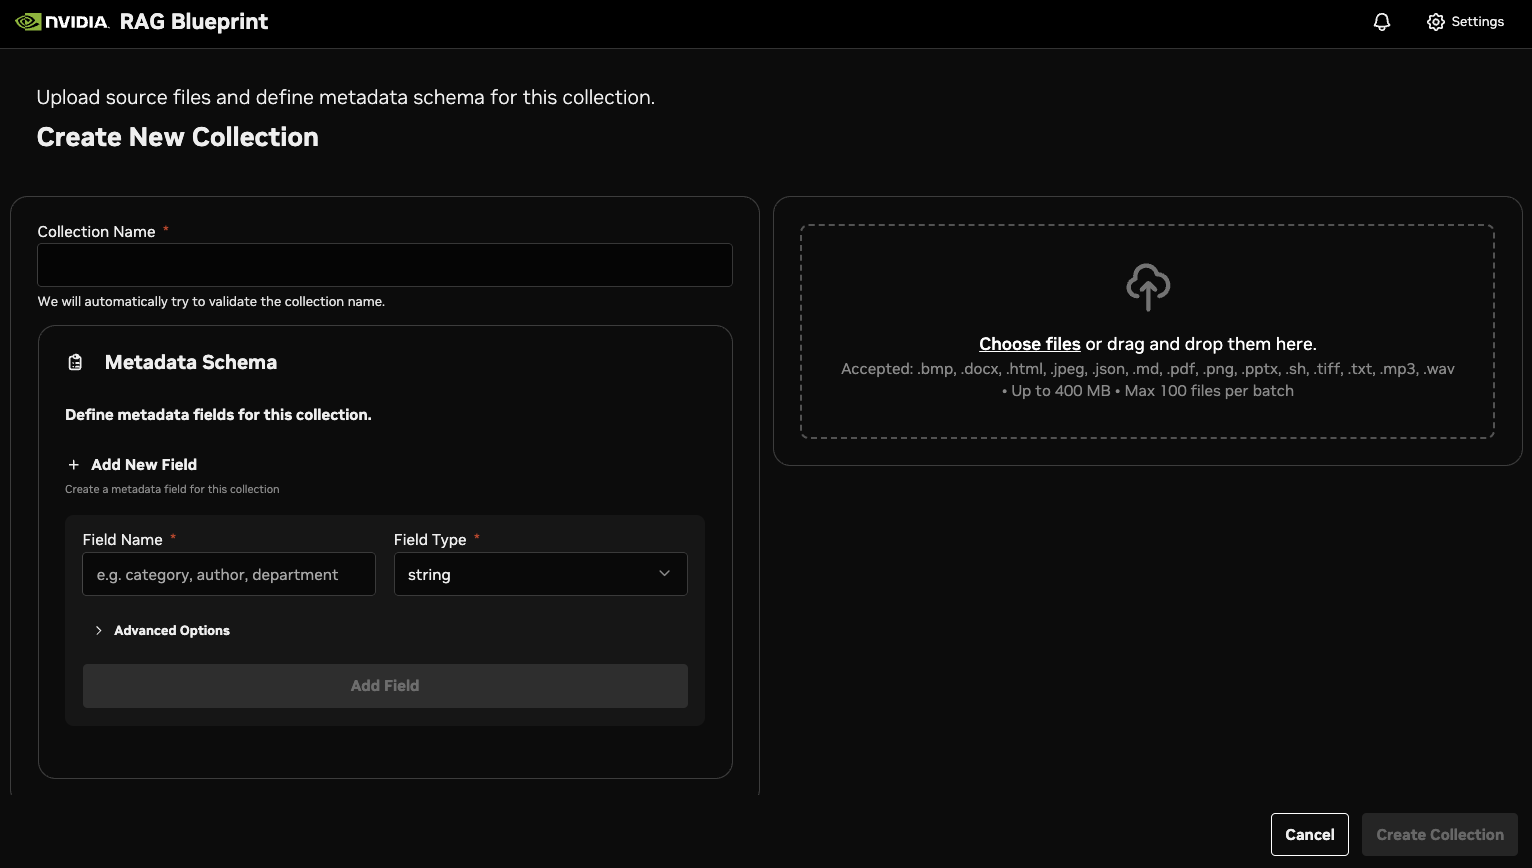
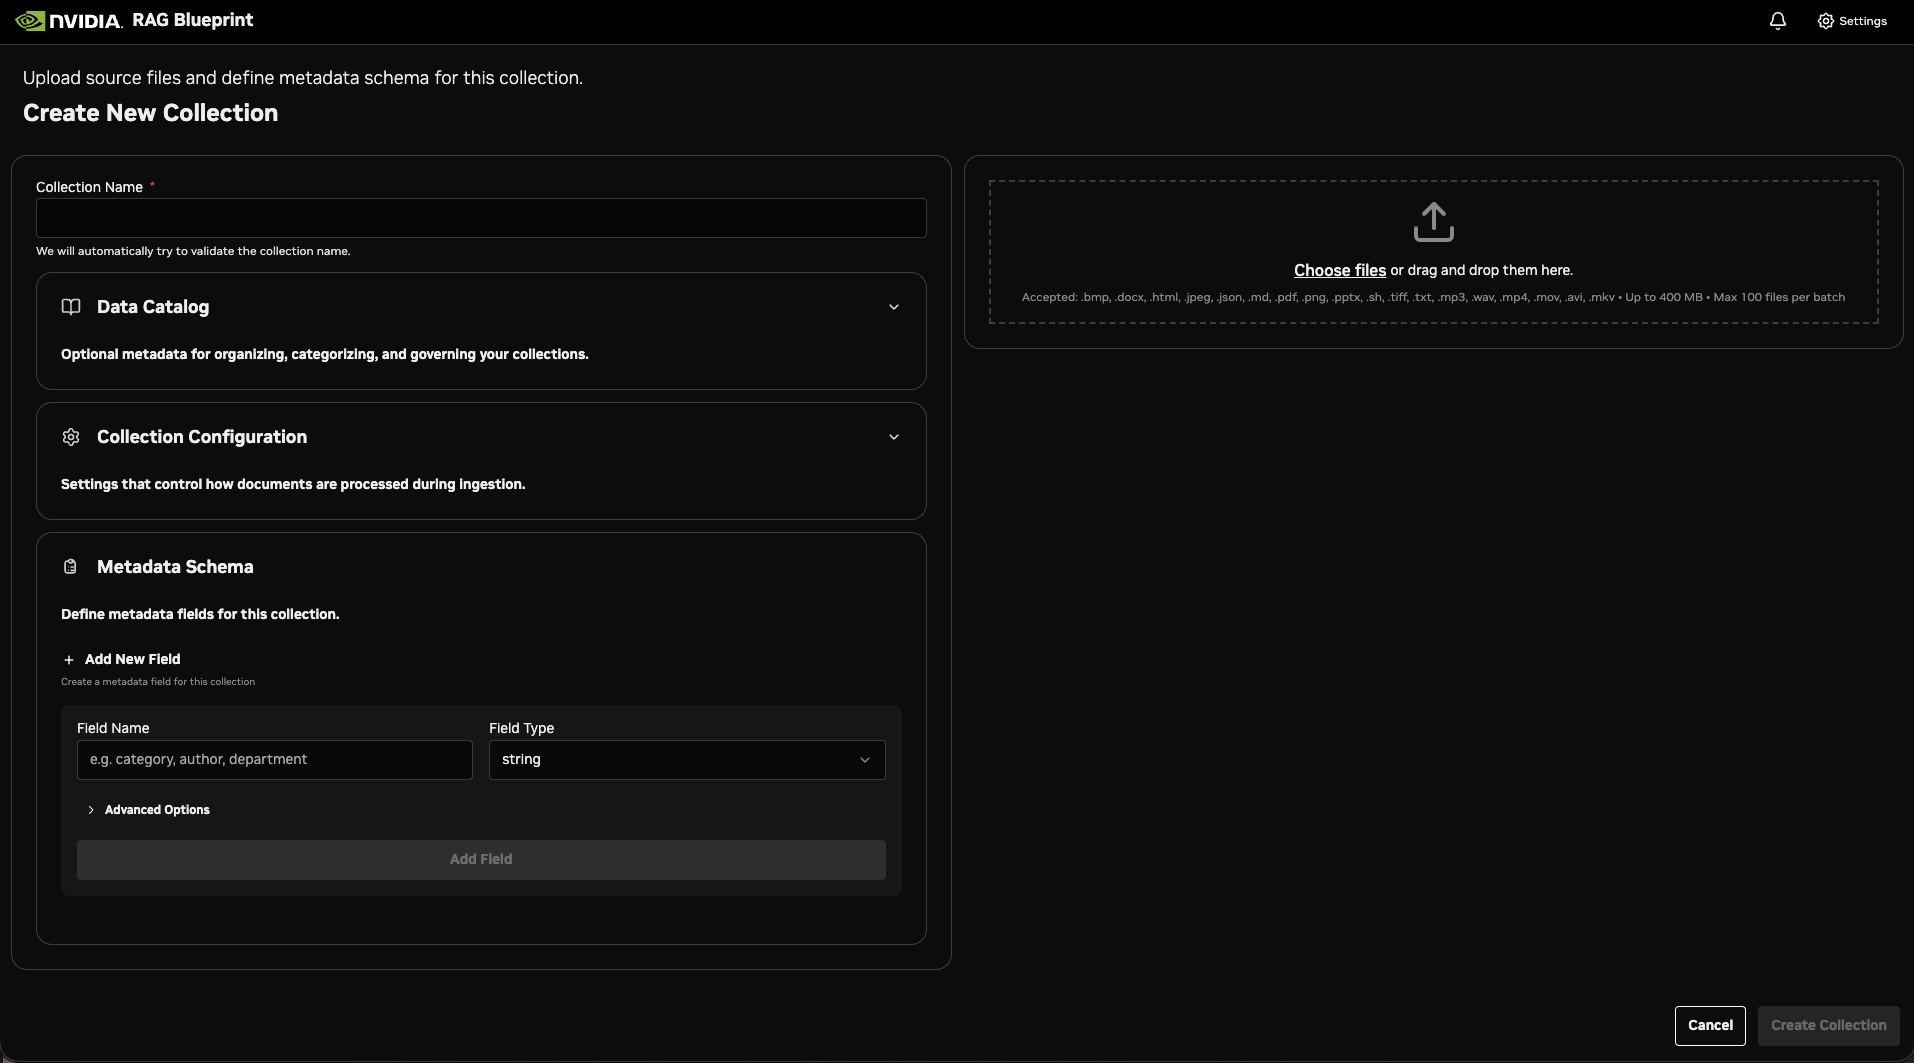
docs: enhance user-interface.md with screenshots and fix sources panel theme
- Add new screenshots for UI documentation:
  - ui-citations.png: Source citations panel
  - ui-settings-rag.png: RAG configuration settings
  - ui-collection-drawer.png: Collection drawer with catalog info
  - Updated existing ui-empty, ui-create-new, ui-query-response

- Update user-interface.md with image references for:
  - Citations and Sources section
  - RAG Configuration section
  - Viewing Collection Details section

- Fix sources panel theme issue:
  - Remove background-color-interaction-inverse from SidebarDrawer
  - Remove text-color-inverse overrides that caused theme mismatch
  - Panel now properly inherits theme colors

- Improve citation text readability:
  - Increase text size from xs (10px) to sm (12px)
  - Increase icon sizes from 12px to 14px

diff --git a/frontend/src/components/citations/CitationMetadata.tsx b/frontend/src/components/citations/CitationMetadata.tsx
@@ -33,16 +33,16 @@ export const CitationMetadata = ({ source, score }: CitationMetadataProps) => {
       <Flex gap="density-md" style={{ paddingTop: 'var(--spacing-density-sm)', flexWrap: 'wrap' }}>
         {source && (
           <Flex align="center" gap="density-xs">
-            <FileText size={12} style={{ color: 'var(--text-color-subtle)' }} />
-            <Text kind="body/regular/xs" style={{ color: 'var(--text-color-subtle)' }}>
+            <FileText size={14} style={{ color: 'var(--text-color-subtle)' }} />
+            <Text kind="body/regular/sm" style={{ color: 'var(--text-color-subtle)' }}>
               Source: {source}
             </Text>
           </Flex>
         )}
         {score !== undefined && (
           <Flex align="center" gap="density-xs">
-            <TrendingUp size={12} style={{ color: 'var(--text-color-subtle)' }} />
-            <Text kind="body/regular/xs" style={{ color: 'var(--text-color-subtle)' }}>
+            <TrendingUp size={14} style={{ color: 'var(--text-color-subtle)' }} />
+            <Text kind="body/regular/sm" style={{ color: 'var(--text-color-subtle)' }}>
               Relevance: {formatScore(score, 3)}
             </Text>
           </Flex>

diff --git a/frontend/src/components/drawer/SidebarDrawer.tsx b/frontend/src/components/drawer/SidebarDrawer.tsx
@@ -64,8 +64,7 @@ export default function SidebarDrawer() {
       closeOnClickOutside
       hideCloseButton
       style={{
-        "--side-panel-width": "75vw",
-        backgroundColor: "var(--background-color-interaction-inverse)"
+        "--side-panel-width": "75vw"
       }}
       slotHeading={
         <Flex align="center" justify="between" gap="3">
@@ -80,7 +79,7 @@ export default function SidebarDrawer() {
               <CitationsIcon />
             </Block>
             <Stack>
-              <Text kind="body/bold/lg" style={{ color: 'var(--text-color-inverse)' }}>
+              <Text kind="body/bold/lg">
                 {view === "citations" && "Source Citations"}
               </Text>
               <Text kind="body/regular/sm" style={{ color: 'var(--text-color-subtle)' }}>
@@ -93,11 +92,6 @@ export default function SidebarDrawer() {
             size="small"
             onClick={closeSidebar}
             aria-label="Close sidebar drawer"
-            style={{ 
-              color: 'var(--text-color-inverse)',
-              minWidth: 'auto',
-              padding: '8px'
-            }}
           >
             <CloseIcon />
           </Button>

diff --git a/frontend/src/components/chat/MessageInput.tsx b/frontend/src/components/chat/MessageInput.tsx
@@ -31,13 +31,6 @@ export default function MessageInput() {
   const { filters, setFilters } = useChatStore();
   const { selectedCollections } = useCollectionsStore();
 
-  // Debug: Check if MessageInput renders multiple times
-  console.log('💬 MessageInput RENDER:', {
-    selectedCollections: selectedCollections.length,
-    filters: filters.length,
-    timestamp: Date.now()
-  });
-
   return (
     <Flex direction="col" padding="density-sm">
       <CollectionChips />

diff --git a/frontend/src/components/citations/CitationTextContent.tsx b/frontend/src/components/citations/CitationTextContent.tsx
@@ -28,7 +28,7 @@ export const CitationTextContent = ({ text }: CitationTextContentProps) => {
   return (
     <div style={{ maxWidth: '100%' }}>
       <Text 
-        kind="body/regular/xs"
+        kind="body/regular/sm"
         style={{ lineHeight: '1.6' }}
         dangerouslySetInnerHTML={{
           __html: renderMarkdown(toMarkdown(text)),

diff --git a/docs/user-interface.md b/docs/user-interface.md
@@ -11,6 +11,8 @@ use the following procedure to start testing and experimenting in the NVIDIA RAG
 The RAG UI is provided as a sample and for experimentation only. It is not intended for your production environment. 
 :::
 
+## Getting Started
+
 1. Open a web browser and navigate to `http://localhost:8090` for a local deployment or `http://<workstation-ip-address>:8090` for a remote deployment. 
 
    The RAG UI appears.
@@ -25,7 +27,13 @@ The RAG UI is provided as a sample and for experimentation only. It is not inten
    :width: 750px
    ```
 
-3. Choose some files to upload in the collection.  Wait while the files are ingested.
+3. Choose some files to upload in the collection. Wait while the files are ingested.
+
+   The following file types are supported:
+   - **Documents**: `.pdf`, `.docx`, `.pptx`, `.txt`, `.md`, `.html`, `.json`
+   - **Images**: `.png`, `.jpeg`, `.bmp`, `.tiff`
+   - **Audio**: `.mp3`, `.wav`
+   - **Video**: `.mp4`, `.mov`, `.avi`, `.mkv`
 
    :::{note}
    The UI file upload interface has a hard limit of **100 files per upload batch**. When selecting more than 100 files, only the first 100 are processed. For bulk uploads beyond this limit, use multiple upload batches or the [programmatic API](../notebooks/ingestion_api_usage.ipynb).
@@ -35,7 +43,7 @@ The RAG UI is provided as a sample and for experimentation only. It is not inten
 
 5. For **Collections**, add the two collections that you created.
 
-6. In **Ask a question about your documents**, submit a query related (or not) to the documents that you uploaded to the collections.  You can query a minimum of 1 and a maximum of 5 collections. You should see results similar to the following.
+6. In **Ask a question about your documents**, submit a query related (or not) to the documents that you uploaded to the collections. You can query a minimum of 1 and a maximum of 5 collections. You should see results similar to the following.
    
    ```{image} assets/ui-query-response.png
    :width: 750 px
@@ -46,19 +54,243 @@ The RAG UI is provided as a sample and for experimentation only. It is not inten
 8. (Optional) Click **Settings** to experiment with the settings to see the effect on generated answers.
 
 
+## Chat Features
 
-## Known Issues and Troubleshooting the RAG UI
+The chat interface provides several features beyond basic question answering.
+
+### Image Attachments
+
+You can attach images to your chat messages for visual analysis:
+
+1. Click the **+** icon in the chat input area
+2. Select **Add image**
+3. Choose one or more image files (JPEG, PNG, GIF, or WebP, up to 10MB each)
+4. The attached images appear as previews above the input
+5. Type your question and send
+
+:::{note}
+Image analysis requires **VLM Inference** to be enabled in Settings > Feature Toggles.
+:::
+
+### Citations and Sources
+
+When citations are enabled, responses include source references:
+
+1. Look for numbered citations in the response text
+2. Click **Sources** to expand the citations panel
+3. Each citation shows:
+   - The source document name
+   - A relevance score indicating how well the content matched your query
+   - A preview of the relevant text or image content
+
+```{image} assets/ui-citations.png
+:width: 750px
+```
+
+### Clear Chat
+
+To clear your conversation history:
+
+1. Click the **+** icon in the chat input area
+2. Select **Clear chat**
+3. Confirm the action in the dialog
+
+
+## Data Catalog
+
+The RAG UI provides data catalog capabilities for organizing and managing your document collections with rich metadata.
+
+### Collection Metadata
+
+When creating a collection, you can expand the **Data Catalog** section to specify:
+
+- **Description**: A text description of the collection's purpose and contents
+- **Tags**: Keywords or labels for categorization and discoverability
+- **Owner**: The person or team responsible for the collection
+- **Business Domain**: The organizational domain or department (e.g., Engineering, Legal, HR)
+- **Status**: The collection's current state (Active, Archived, or Deprecated)
+
+### Custom Metadata Schema
+
+You can define custom metadata fields that apply to all documents in a collection:
+
+1. When creating a new collection, use the **Metadata Schema Editor**
+2. Click **Add Field** to create a new metadata field
+3. For each field, specify:
+   - **Name**: The field identifier
+   - **Type**: Choose from string, integer, float, boolean, array, or datetime
+4. When uploading documents, you can fill in values for each metadata field
+
+Custom metadata enables advanced filtering when querying your collections.
+
+### Viewing Collection Details
+
+Click on any collection name in the sidebar to open the collection drawer. The drawer displays:
+
+1. **Collection Catalog Info Panel**: Shows all metadata including description, tags, owner, business domain, and status
+2. **Content Metrics**: Displays the total file count and content type indicators (tables, charts, images, audio)
+3. **Documents List**: All documents in the collection with their individual metadata
+
+```{image} assets/ui-collection-drawer.png
+:width: 750px
+```
+
+### Document-Level Information
+
+Each document in a collection can have:
+
+- **Description**: A summary or note about the document
+- **Tags**: Document-specific labels for filtering and organization
+- **Custom Metadata**: Values for fields defined in the collection's metadata schema
+
+To edit document information:
+
+1. Click on a collection to open the collection drawer
+2. Find the document you want to edit
+3. Click the **pencil icon** next to the document
+4. Update the description and/or tags
+5. Click **Save** to apply changes
+
+
+## Metadata Filtering
+
+You can filter query results based on document metadata using the Filter Bar.
+
+### Adding Filters
+
+1. Click in the **Filters** area above the chat input
+2. Select a metadata field from the dropdown
+3. Choose an operator (varies by field type):
+   - **Text fields**: =, !=, like, in, not in
+   - **Number fields**: =, !=, >, <, >=, <=, in, not in
+   - **Boolean fields**: =, !=
+   - **Datetime fields**: before, after, =, !=, >, <
+   - **Array fields**: array_contains, array_contains_all, array_contains_any
+4. Enter or select a value
+5. Press **Enter** to add the filter
+
+### Combining Filters
+
+You can add multiple filters and combine them with **AND** or **OR** logic:
+
+- Click the logic button between filters to toggle between AND/OR
+- Remove filters by clicking the **X** on the filter chip
+
+
+## Document Summarization
+
+The RAG UI supports automatic document summarization during ingestion. When enabled, the system generates AI-powered summaries for each uploaded document.
+
+### Enabling Summarization
+
+1. Open the collection drawer by clicking on a collection name
+2. Click **Add Sources** to open the upload panel
+3. Expand the **Collection Configuration** section
+4. Toggle **Document Summarization** to enable or disable
+
+:::{note}
+Document summarization may increase processing time and costs depending on your deployment configuration. Summaries are generated asynchronously after document ingestion completes.
+:::
+
+### Viewing Summaries
+
+Once documents are ingested with summarization enabled:
+
+1. Open the collection drawer
+2. Expand any document in the documents list
+3. The summary appears below the document metadata (if available)
+4. Click on the summary to expand/collapse the full text
+
+
+## Settings
+
+The Settings panel provides configuration options for customizing RAG behavior. Access it by clicking the **Settings** icon in the header.
+
+### RAG Configuration
+
+Fine-tune the retrieval and generation parameters:
+
+```{image} assets/ui-settings-rag.png
+:width: 750px
+```
+
+| Setting | Description | Range |
+|---------|-------------|-------|
+| **Temperature** | Controls randomness in responses. Higher = more creative, lower = more focused. | 0.0 - 1.0 |
+| **Top P** | Limits token selection to cumulative probability. Lower = more focused. | 0.0 - 1.0 |
+| **Confidence Score Threshold** | Minimum confidence for document relevance. Higher = more selective. | 0.0 - 1.0 |
+| **Vector DB Top K** | Number of documents to retrieve from the vector database. | 1 - 400 |
+| **Reranker Top K** | Number of documents to return after reranking. | 1 - 50 |
+| **Max Tokens** | Maximum number of tokens in the generated response. | Varies |
+
+### Feature Toggles
+
+Enable or disable various features:
+
+| Feature | Description | Default |
+|---------|-------------|---------|
+| **Enable Reranker** | Uses reranking to improve document relevance. | Enabled |
+| **Include Citations** | Adds source citations to responses. | Enabled |
+| **Use Guardrails** | Applies NeMo Guardrails for safety filtering. | Disabled |
+| **Query Rewriting** | Rewrites queries for better retrieval. | Disabled |
+| **VLM Inference** | Enables vision-language model for image analysis. | Disabled |
+| **Filter Generator** | Auto-generates metadata filters from queries. | Disabled |
+
+### Model Configuration
+
+Configure the AI models used for different tasks:
+
+- **Chat/LLM Model**: The language model for generating responses
+- **Embedding Model**: The model for creating document embeddings
+- **Reranker Model**: The model for reranking retrieved documents
+
+### Endpoint Configuration
+
+Set up custom API endpoints for LLM, embedding, and reranker services.
+
+
+## Notifications and Health Monitoring
+
+The RAG UI provides real-time notifications for tracking document ingestion and system health.
+
+### Ingestion Progress
+
+When you upload documents:
+
+1. A notification appears showing the upload task
+2. Progress updates display as documents are processed
+3. The notification shows completion status (success or failure)
+4. Click on a notification to view details
+
+### Health Notifications
+
+The UI automatically monitors backend services and shows notifications when issues are detected:
+
+- **Databases**: Vector database (Milvus/Elasticsearch) connectivity
+- **NIM Services**: LLM, embedding, and reranker model availability
+- **Processing**: Document ingestion service status
+
+Health notifications include the service name, error details, and response time to help with troubleshooting.
+
+### Notification Management
+
+- Click the **bell icon** in the header to view all notifications
+- Notifications show the collection name, document count, and status
+- Use **Clear All** to remove all notifications
+- Old notifications are automatically cleaned up after 24 hours
+
+
+## Known Issues and Troubleshooting
 
 The following issues might arise when you work with the RAG UI:
 
-- If you try to upload multiple files at the same time in the RAG UI, you might see an error similar to `Error uploading documents: { code: 'ECONNRESET' }`. In this case, you can use the API directly for bulk uploading instead of the RAG UI. 
+- If you try to upload multiple files at the same time, you might see an error similar to `Error uploading documents: { code: 'ECONNRESET' }`. In this case, use the API directly for bulk uploading.
 
-- The RAG UI has a hard limit of 100 files per upload batch. If you select more than 100 files, only the first 100 files are processed. For uploads beyond this limit, use multiple upload batches or the API. The default timeout for file uploads in the RAG UI is set to 1 hour.
+- The RAG UI has a hard limit of 100 files per upload batch. For larger uploads, use multiple batches or the API. The default timeout for file uploads is 1 hour.
 
-- Complicated filter expressions with custom metadata are not supported from the RAG UI.
+- Immediately after document ingestion, there might be a delay before the UI accurately reflects the number of documents in a collection.
 
-- Immediately after document ingestion, there might be a delay before the RAG UI accurately reflects the number of Milvus entities in a collection. Although the count that appears might be temporarily inconsistent, the presence of a document in the RAG UI confirms its successful ingestion.
-
+- Document summaries may take additional time to generate after ingestion completes. The UI shows "Generating summary..." until the process finishes.
 
 
 ## Related Topics
@@ -66,3 +298,4 @@ The following issues might arise when you work with the RAG UI:
 - [NVIDIA RAG Blueprint Documentation](readme.md)
 - [Get Started](deploy-docker-self-hosted.md)
 - [Notebooks](notebooks.md)
+- [NeMo Guardrails Configuration](nemo-guardrails.md)
